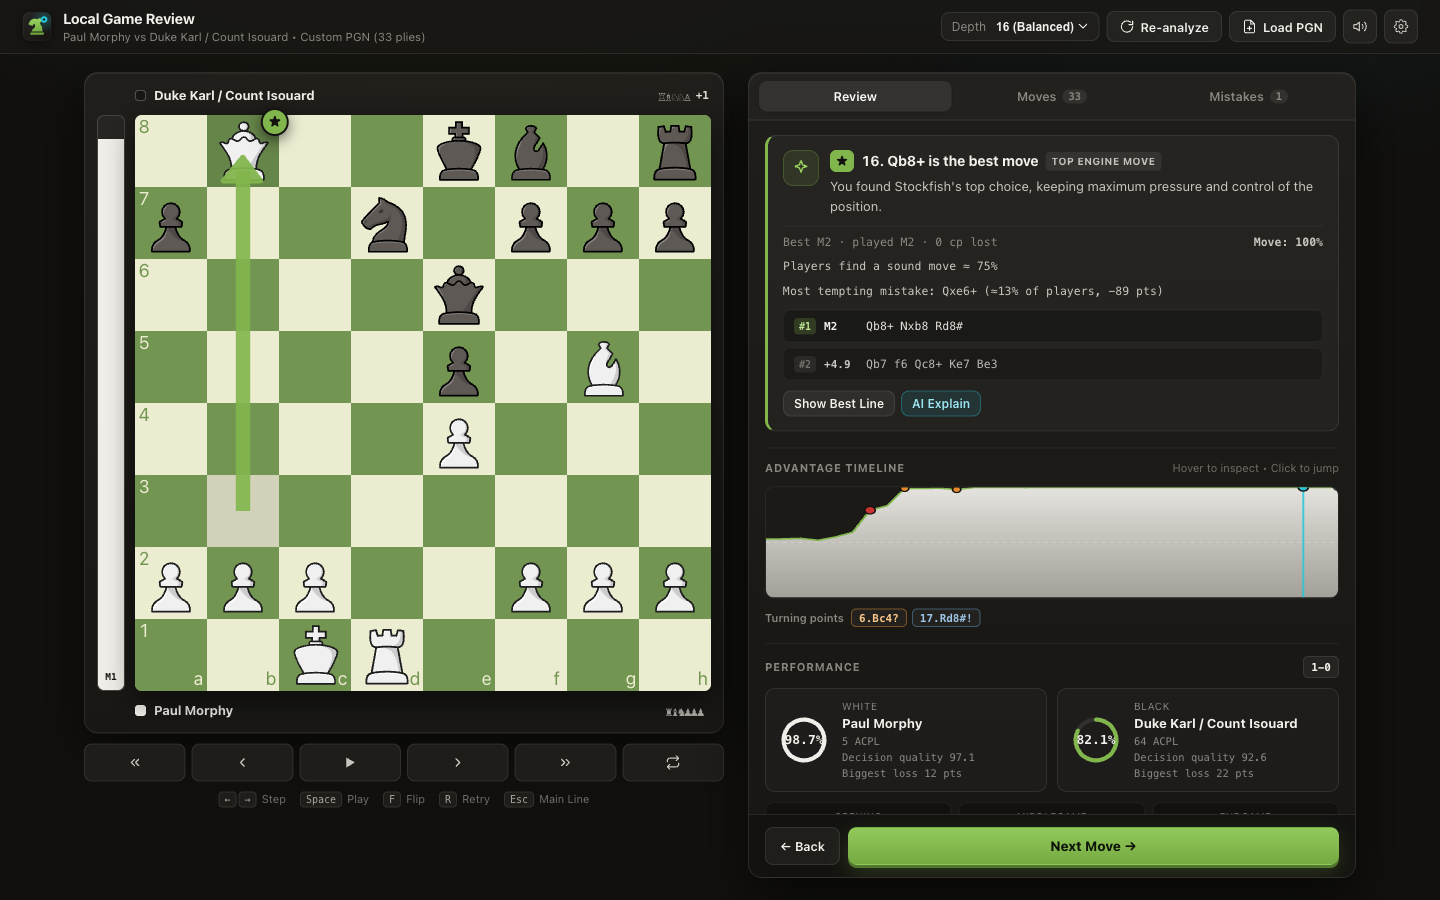
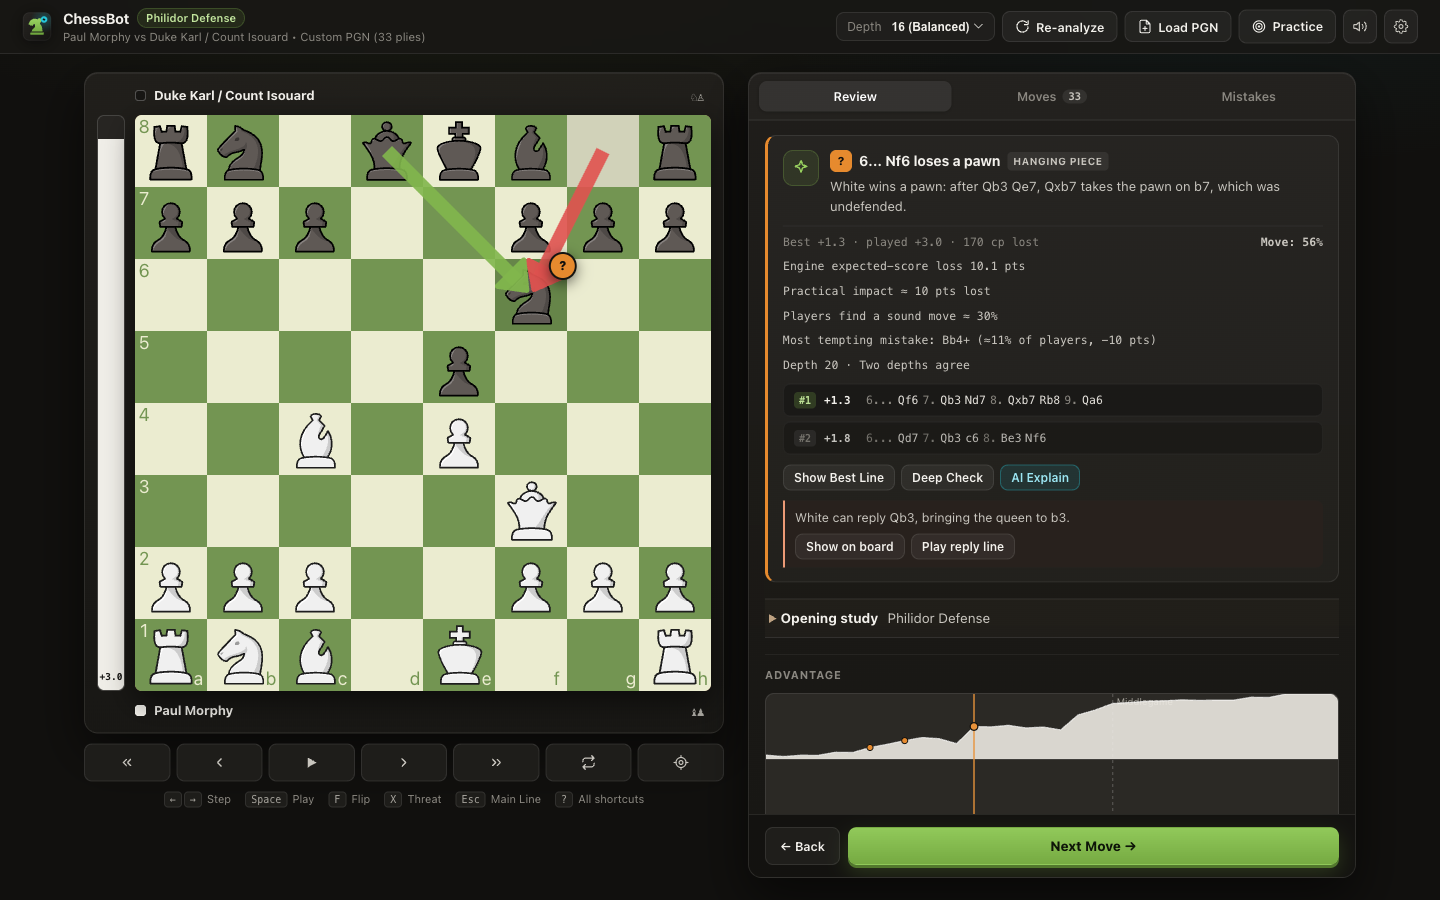
docs: rebuild the README as a visual tour with fresh screenshots (#7)
Adds a feature table, a tour with seven screenshots of 3.8 (move card,
chart and summary, move-list comments with line previews, threat and
drawn arrows, opening study, mistakes drill, shortcut sheet), and a
navigation row. All screenshots use the public-domain Opera Game.

diff --git a/README.md b/README.md
@@ -5,47 +5,106 @@
 <h1 align="center">ChessBot</h1>
 
 <p align="center">
-  <strong>Private, offline game review for Chess.com games and PGNs, powered by full-strength Stockfish 19 in your browser.</strong>
+  <strong>Private game review for Chess.com games and PGNs, with full-strength Stockfish 19 running in your browser.</strong><br>
+  Every move graded and explained. Your mistakes become practice. Nothing leaves your computer.
 </p>
 
 <p align="center">
-  <a href="https://github.com/FrankieBiz/ChessBot/actions/workflows/ci.yml"><img src="https://github.com/FrankieBiz/ChessBot/actions/workflows/ci.yml/badge.svg" alt="CI status"></a>
   <a href="https://github.com/FrankieBiz/ChessBot/releases/latest"><img src="https://img.shields.io/github/v/release/FrankieBiz/ChessBot?sort=semver" alt="Latest release"></a>
+  <a href="https://github.com/FrankieBiz/ChessBot/actions/workflows/ci.yml"><img src="https://github.com/FrankieBiz/ChessBot/actions/workflows/ci.yml/badge.svg" alt="CI status"></a>
   <a href="LICENSE"><img src="https://img.shields.io/badge/license-GPL--3.0-blue" alt="License: GPL-3.0"></a>
   <img src="https://img.shields.io/badge/engine-Stockfish%2019-2e7d32" alt="Engine: Stockfish 19">
   <img src="https://img.shields.io/badge/browsers-Chrome%20%7C%20Firefox-555" alt="Browsers: Chrome and Firefox">
 </p>
 
 <p align="center">
-  <img src="docs/images/review-move.png" alt="ChessBot reviewing the 1858 Opera Game. The move card shows Stockfish's top lines, how often players find a sound move, and the most tempting mistake." width="900">
+  <a href="#install">Install</a> ·
+  <a href="#a-tour-of-chessbot">Tour</a> ·
+  <a href="#usage">Usage</a> ·
+  <a href="#accuracy-you-can-check">Accuracy</a> ·
+  <a href="#privacy">Privacy</a> ·
+  <a href="CHANGELOG.md">Changelog</a>
 </p>
 
-ChessBot is a browser extension that reviews your finished games the way a coach would. Every move gets a grade, an explanation, and Stockfish's best continuation. Your mistakes become practice drills. The engine runs entirely on your computer, so there is no account, no upload, and no waiting in a server queue.
+<p align="center">
+  <img src="docs/images/review-move.png" alt="ChessBot reviewing the 1858 Opera Game. The move card names the mistake, explains it, and shows Stockfish's top lines, how often players find a sound move, and the most tempting mistake." width="900">
+</p>
 
-## Features
+ChessBot is a browser extension that reviews your finished games the way a coach would. Every move gets a grade, a reason, and Stockfish's best continuation. Your mistakes come back as spaced practice. The engine runs entirely on your computer, so there is no account, no upload, and no waiting in a server queue.
 
-- **Full-strength engine, fully local.** Stockfish 19 with its full NNUE network runs in WebAssembly workers inside the extension, up to four at once. Your games never leave your browser.
-- **Fast first look.** A quick pass grades the whole game first, so the summary, graph, and move list appear in well under a minute. Close calls are then checked deeper in the background, and their grades are marked until the check finishes.
-- **Move grades from Brilliant to Blunder.** Grades come from the drop in expected score, not raw centipawns. Positions where the grade is at risk are rechecked with deeper searches, and the move card says when a grade is still uncertain.
-- **Book moves.** See established opening moves and opening names in the review, on the board, and in the move list. The bundled catalog recognizes transpositions offline, and Stockfish still checks the moves.
-- **Opening study.** Find where a game left the book and try common alternatives on the board. The explorer shows game counts and results from rated Lichess games, with playable examples for common positions.
-- **Deep Check.** Run a deeper Stockfish comparison on a selected move, see how its grade changes, and play the deeper line. Game scores and practice drills still reflect the original review.
-- **Game chart.** A Lichess-style advantage chart with game phases and marked mistakes. Click or drag along it to move through the game. Games with clocks add a move-times chart.
-- **Analysis board tools.** The move list comments on each mistake with the best move and Stockfish's line. Hover any move in an engine line to preview it, and click to play it. Press <kbd>X</kbd> to see what your opponent threatens. Draw arrows and circles with the right mouse button. Copy or download the game as annotated PGN with evaluations, clock times, and better lines.
-- **Accuracy and Decision Quality.** Lichess-style accuracy, average centipawn loss, and separate opening, middlegame, and endgame scores. Decision Quality adds a score that weighs large mistakes more heavily.
-- **Coaching on every move.** Every mistake gets a concrete reason: the tactic it allows or misses (forks, pins, skewers, discovered attacks and checks, double checks, back-rank mates, hanging pieces), the material Stockfish's reply wins and why the piece fell, checks against your king, a missed recapture, or what the better move does. Each reason is checked on the board and in Stockfish's lines; when none applies, the card shows the evaluation change and the best line. Show the opponent's reply on the board and play its continuation. Optional AI explanations use your own key for OpenAI, DeepSeek, Gemini, or any OpenAI-compatible endpoint.
-- **Personal performance.** Compare this game's accuracy with your recent median when you have enough saved reviews at the same engine depth and time control.
-- **Practice drills.** The Mistakes tab replays your Mistakes, Misses, and Blunders from the original position. Missed mates come back as drills that only accept a mate at least as fast.
-- **Spaced practice from your own games.** Every Mistake, Miss, and Blunder you make is saved as a puzzle on the Practice page and comes back after 1, 3, 7, 21, and 60 days, mixed across games. Testing yourself on a spaced schedule is one of the two study methods with the strongest research support.
-- **Weakness report.** Across your reviewed games, see which kinds of mistakes you make most, how many come in easy positions, how each game phase goes, what happens when you're low on time, and which won games slipped away. Each finding links to matching puzzles.
+## Why ChessBot
+
+| | |
+| --- | --- |
+| **Private** | Stockfish 19 runs in WebAssembly inside the extension. No account, analytics, or tracking. |
+| **Fast** | Up to four engines work at once. A quick pass grades the whole game in well under a minute, and close calls are rechecked deeper in the background. |
+| **Honest** | Grades come from the drop in expected score, are benchmarked against deeper searches, and say when they're uncertain. |
+| **Explained** | Every mistake gets a reason checked on the board: the tactic it allowed or missed, the material it lost, or what the better move does. |
+| **Free** | No review limits and no subscription. Released under the GPL. |
+
+## A tour of ChessBot
+
+### Every move, explained
+
+Each move is graded from Brilliant to Blunder, with the engine's best lines and the reason behind the grade. The coach names the tactic only when Stockfish's line wins material or mates, so it never describes a pattern the line doesn't use. **Show on board** draws the tactic and marks the attacked pieces.
+
+### The whole game at a glance
+
+<p align="center">
+  <img src="docs/images/review-summary.png" alt="The game chart shows White's and Black's advantage with phase markers and dots for mistakes, followed by accuracy, Decision Quality, and grade counts for each player" width="900">
+</p>
+
+- **Lichess-style chart.** White's edge shades light and Black's dark from a center line. Dots mark every Inaccuracy, Mistake, Miss, and Blunder, and dashed lines mark where the middlegame and endgame begin. Hover for the move and evaluation, or click and drag to move through the game.
+- **Move times.** Games with clock data add a chart of the time spent on each move, with errors colored by grade.
+- **Accuracy and Decision Quality.** Lichess-style accuracy, average centipawn loss, and separate opening, middlegame, and endgame scores. Each grade count jumps to the next move of that grade.
+
+### Comments on every mistake
+
+<p align="center">
+  <img src="docs/images/move-list-comments.png" alt="The Moves tab lists each move with its grade and, under every mistake, the better move, the evaluation change, and Stockfish's line. Hovering a move in a line previews that position on a small board." width="900">
+</p>
+
+The Moves tab says which move was best and how the evaluation changed, with Stockfish's line underneath, as Lichess's computer analysis does. **Hover any move in a line to preview the position, and click it to play the line on the board.**
+
+### See what your opponent threatens
+
+<p align="center">
+  <img src="docs/images/threat-and-drawing.png" alt="The threat view shows a dashed red arrow and a banner naming what Black threatens. Green, blue, and red arrows and a circle were drawn on the board with the right mouse button." width="900">
+</p>
+
+Press <kbd>X</kbd> to see what the side that just moved would play if it could move again. Only mates, named tactics, and moves that win material count as threats. Draw your own arrows and circles with the right mouse button, in green, red, blue, or yellow with <kbd>Shift</kbd> and <kbd>Alt</kbd>.
+
+### Study your opening
+
+<p align="center">
+  <img src="docs/images/opening-study.png" alt="Opening study shows the first move outside the book, with game counts and results for the common alternatives from rated Lichess games" width="900">
+</p>
+
+See where your game left the book and try the common alternatives. The explorer shows game counts and results from rated Lichess games between players rated 2100 and up. The opening catalog works offline and recognizes transpositions.
+
+### Retry your mistakes, then practice them later
+
+<p align="center">
+  <img src="docs/images/mistakes-drill.png" alt="The Mistakes tab replays a mistake from the original position and asks you to find a stronger move" width="900">
+</p>
+
+The Mistakes tab replays your Mistakes, Misses, and Blunders from the original position. Missed mates come back as drills that only accept a mate at least as fast. Every mistake you make is also saved to the **Practice** page, where it returns after 1, 3, 7, 21, and 60 days, mixed across games. A weakness report across your reviewed games shows which kinds of mistakes you make most, how many come in easy positions, and which won games slipped away, with a button to practice each one.
+
+### More
+
+- **Deep Check.** Run a deeper Stockfish comparison on one move and play the deeper line.
 - **Human difficulty.** For each decision, ChessBot estimates how often players find a sound move and names the most tempting mistake. The model was trained on public-domain Lichess games.
 - **Practical impact.** A clock-aware model estimates how much a move changed a human player's real chances, not just the engine evaluation.
-- **Free exploration.** Try your own moves on the board, with a full promotion picker. Repetitions and 50-move draws are recognized in your variations.
+- **Annotated PGN export.** Copy or download the game with evaluations, clock times, grades, and Stockfish's better lines, ready to import into Lichess, Chess.com, or ChessBase.
+- **Free exploration.** Try your own moves on the board, with a full promotion picker. Repetitions and 50-move draws are recognized.
+- **Optional AI explanations.** Bring your own key for OpenAI, DeepSeek, Gemini, or any OpenAI-compatible endpoint. They stay off until you set one up.
 - **Fair-play safe.** The review button appears only after a Chess.com game is over. ChessBot never runs during live play.
 
 <p align="center">
-  <img src="docs/images/review-summary.png" alt="Game summary with the advantage timeline, accuracy, Decision Quality, and grade counts for each player" width="900">
+  <img src="docs/images/shortcuts.png" alt="The shortcut sheet lists the keyboard and mouse shortcuts for stepping through a game, analysis, and drawing on the board" width="640">
 </p>
+
+Everything has a shortcut. Press <kbd>?</kbd> in the review for the full list.
 
 ## Install
 
